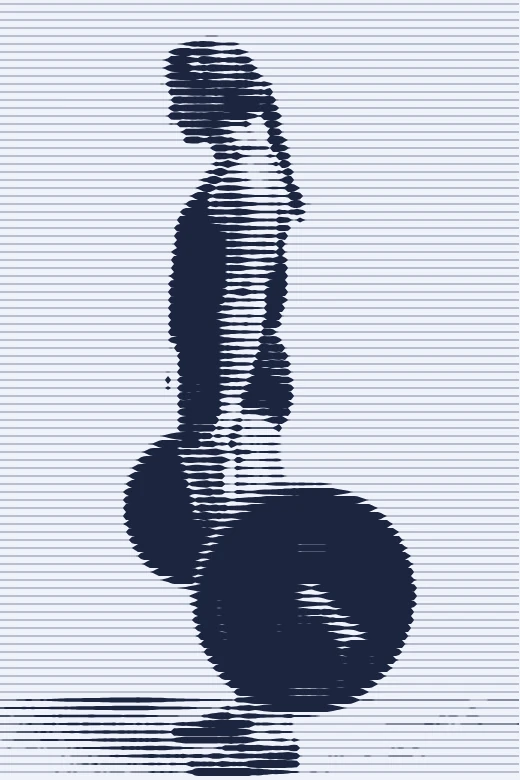
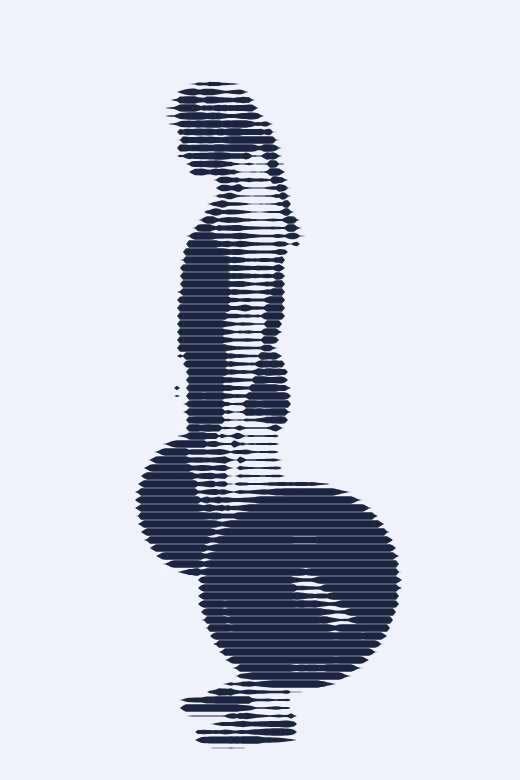
Site : Johnny vs Sophie en pts, scanlines des carrousels

diff --git a/src/components/home/SportsMarquee.tsx b/src/components/home/SportsMarquee.tsx
@@ -7,27 +7,25 @@ import { useInView, fadeUp, clipReveal } from "@/hooks/useInView";
 // Panneaux tirés des carrousels : la photo entière en scanlines (même rendu que les carrousels),
 // bleu marine sur bleu glacier. Images 520×780, affichées en 260×390 (rapport 2:1, lignes nettes).
 const SPORTS: { file: string; en: string; fr: string }[] = [
-  { file: "sprint", en: "Running", fr: "Course" },
-  { file: "boxing", en: "Boxing", fr: "Boxe" },
-  { file: "tennis", en: "Tennis", fr: "Tennis" },
-  { file: "indoor-cycling", en: "Indoor cycling", fr: "Vélo d'intérieur" },
-  { file: "swimming", en: "Swimming", fr: "Natation" },
+  { file: "sprint", en: "Sprint", fr: "Sprint" },
+  { file: "cycling", en: "Cycling", fr: "Vélo" },
   { file: "lifting", en: "Lifting", fr: "Musculation" },
-  { file: "wheelchair-basketball", en: "Wheelchair basketball", fr: "Basket fauteuil" },
+  { file: "running", en: "Running", fr: "Course" },
+  { file: "tennis", en: "Tennis", fr: "Tennis" },
+  { file: "rowing", en: "Rowing", fr: "Aviron" },
   { file: "basketball", en: "Basketball", fr: "Basket" },
-  { file: "nordic-walking", en: "Nordic walking", fr: "Marche nordique" },
-  { file: "running", en: "Trail running", fr: "Trail" },
+  { file: "walking", en: "Walking", fr: "Marche" },
 ];
 
 const COPY = {
   en: {
     label: "Every sport counts",
-    h2: ["Run. Ride. Lift.", "Swim. Box. Play."],
+    h2: ["Run. Ride. Lift.", "Row. Play. Walk."],
     body: "If your heart rate goes up, it counts. Your watch measures the effort, Attax turns it into points. Whatever your sport, whatever your age.",
   },
   fr: {
     label: "Tous les sports comptent",
-    h2: ["Cours. Roule. Soulève.", "Nage. Boxe. Joue."],
+    h2: ["Cours. Roule. Soulève.", "Rame. Joue. Marche."],
     body: "Si ton cœur accélère, ça compte. Ta montre mesure l'effort, Attax le transforme en points. Quel que soit ton sport, quel que soit ton âge.",
   },
 };
